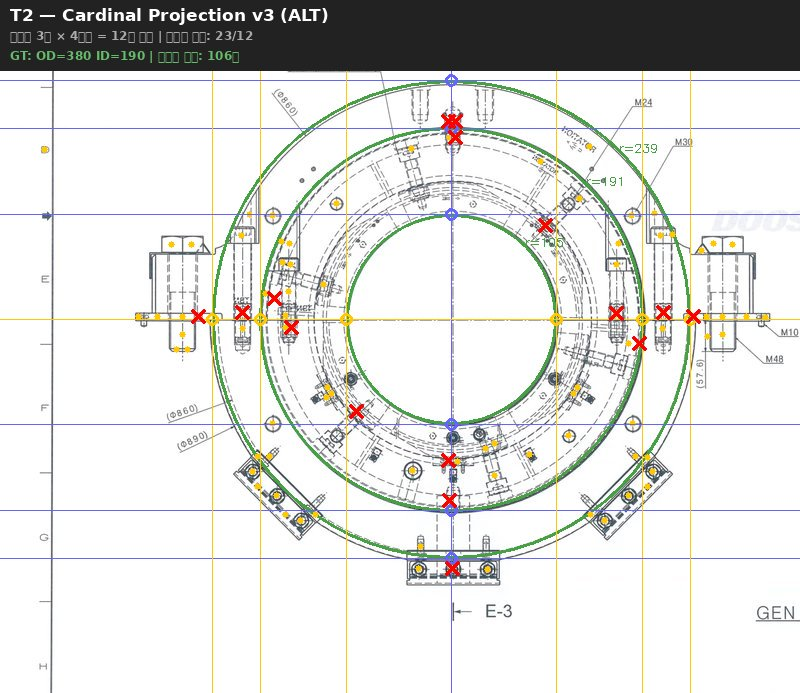
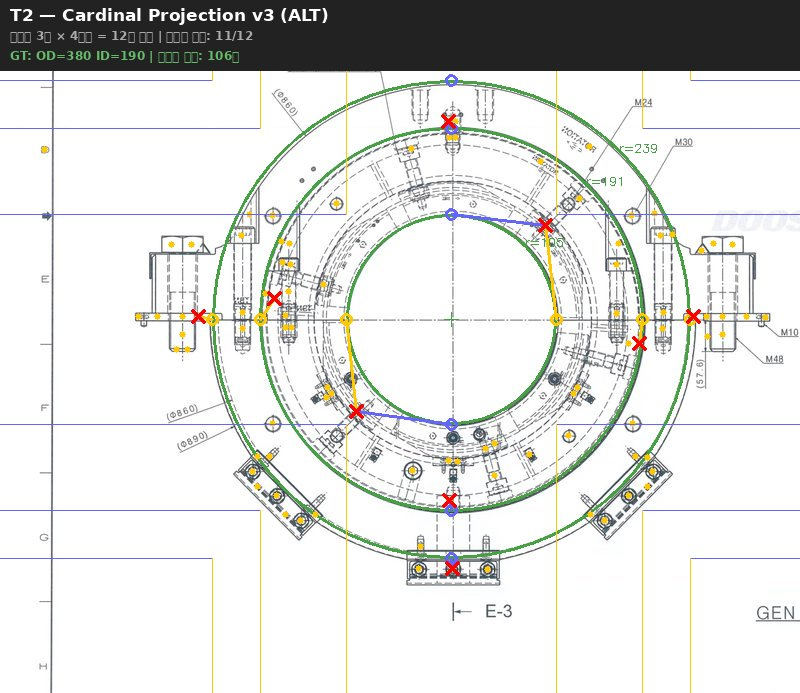
fix(S08): Cardinal v3 원 바깥쪽 직선으로 수정 — N/S→수평, E/W→수직
각 끝점에서 원에 안 닿는 바깥 방향으로만 직선 배치.
원 내부(r×0.9 이내) 화살촉 제외 필터 추가.
히트율 42/48 (88%).

diff --git a/blueprint-ai-bom/scripts/s08_cardinal_v3_alt.py b/blueprint-ai-bom/scripts/s08_cardinal_v3_alt.py
@@ -139,15 +139,15 @@ def detect_arrowheads_morphology(gray, min_area=30, max_area=800):
 # ── 3. Cardinal Projection ──
 
 def cardinal_projection(circles, arrows, gray, tolerance=15):
-    """각 원의 N/S/E/W 끝점에서 십자(+) 직선 → 화살촉 매칭
+    """각 원의 N/S/E/W 끝점에서 원 바깥쪽 수평선 → 화살촉 매칭
 
-    핵심: 각 끝점에서 **수평선 + 수직선 둘 다** 이미지 끝까지 그어서
-    그 직선 위의 화살촉을 찾는다.
+    핵심: 각 끝점에서 원에 안 닿는 방향으로만 수평선을 긋는다.
+      N끝점 → 수평선 좌(←)로 + 수평선 우(→)로 (원 위쪽이므로 원에 안 닿음)
+      S끝점 → 수평선 좌(←)로 + 수평선 우(→)로 (원 아래쪽이므로 원에 안 닿음)
+      E끝점 → 수직선 위(↑)로 + 수직선 아래(↓)로 (원 오른쪽이므로 원에 안 닿음)
+      W끝점 → 수직선 위(↑)로 + 수직선 아래(↓)로 (원 왼쪽이므로 원에 안 닿음)
 
-      N끝점 → 수평선(좌→우 끝) + 수직선(상→하 끝)
-      S끝점 → 수평선(좌→우 끝) + 수직선(상→하 끝)
-      E끝점 → 수평선(좌→우 끝) + 수직선(상→하 끝)
-      W끝점 → 수평선(좌→우 끝) + 수직선(상→하 끝)
+    즉 N/S → 수평선, E/W → 수직선. 원 바깥쪽 양방향.
 
     tolerance: 직선과 화살촉 사이 수직 거리 최대값 (px)
     """
@@ -157,17 +157,20 @@ def cardinal_projection(circles, arrows, gray, tolerance=15):
 
     results = []
 
+    # (방향, dx, dy, 직선축)
+    # N/S 끝점은 원의 위/아래 → 수평선(좌우)
+    # E/W 끝점은 원의 좌/우 → 수직선(상하)
     directions = [
-        ("N", 0, -1),
-        ("S", 0,  1),
-        ("E", 1,  0),
-        ("W", -1, 0),
+        ("N", 0, -1, "h"),
+        ("S", 0,  1, "h"),
+        ("E", 1,  0, "v"),
+        ("W", -1, 0, "v"),
     ]
 
     for ci, (cx, cy, r) in enumerate(circles):
         circle_hits = []
 
-        for dir_name, dx, dy in directions:
+        for dir_name, dx, dy, line_axis in directions:
             # 끝점
             px = cx + r * dx
             py = cy + r * dy
@@ -175,44 +178,41 @@ def cardinal_projection(circles, arrows, gray, tolerance=15):
             if px < 0 or py < 0 or px >= w or py >= h:
                 continue
 
-            # 수평선 + 수직선 둘 다에서 화살촉 검색
-            h_matches = []  # 수평선 위 화살촉
-            v_matches = []  # 수직선 위 화살촉
-
+            matches = []
             for ai, arrow in enumerate(arrows):
                 ax, ay = arrow["x"], arrow["y"]
 
-                # 수평선: y좌표가 끝점과 비슷 (이미지 전체 폭)
-                if abs(ay - py) <= tolerance:
+                if line_axis == "h":
+                    # 수평선: y좌표가 끝점과 비슷, 원 바깥(좌우 모두)
+                    if abs(ay - py) > tolerance:
+                        continue
+                    # 원 바깥인지 체크: 화살촉이 원 내부가 아닌지
+                    dist_to_center = np.sqrt((ax - cx) ** 2 + (ay - cy) ** 2)
+                    if dist_to_center < r * 0.9:
+                        continue  # 원 내부 화살촉 제외
                     dist = np.sqrt((ax - px) ** 2 + (ay - py) ** 2)
-                    h_matches.append({
+                    matches.append({
                         "arrow_idx": ai, "arrow": arrow,
-                        "line": "h", "dist": dist,
-                        "dist_from_line": abs(ay - py),
+                        "dist": dist,
+                    })
+                else:
+                    # 수직선: x좌표가 끝점과 비슷, 원 바깥(상하 모두)
+                    if abs(ax - px) > tolerance:
+                        continue
+                    dist_to_center = np.sqrt((ax - cx) ** 2 + (ay - cy) ** 2)
+                    if dist_to_center < r * 0.9:
+                        continue
+                    dist = np.sqrt((ax - px) ** 2 + (ay - py) ** 2)
+                    matches.append({
+                        "arrow_idx": ai, "arrow": arrow,
+                        "dist": dist,
                     })
 
-                # 수직선: x좌표가 끝점과 비슷 (이미지 전체 높이)
-                if abs(ax - px) <= tolerance:
-                    dist = np.sqrt((ax - px) ** 2 + (ay - py) ** 2)
-                    v_matches.append({
-                        "arrow_idx": ai, "arrow": arrow,
-                        "line": "v", "dist": dist,
-                        "dist_from_line": abs(ax - px),
-                    })
-
-            # 각 직선에서 가장 가까운 화살촉
-            all_best = []
-            if h_matches:
-                best_h = min(h_matches, key=lambda m: m["dist"])
-                all_best.append(best_h)
-            if v_matches:
-                best_v = min(v_matches, key=lambda m: m["dist"])
-                all_best.append(best_v)
-
-            for best in all_best:
+            if matches:
+                best = min(matches, key=lambda m: m["dist"])
                 circle_hits.append({
                     "direction": dir_name,
-                    "line": best["line"],
+                    "line": line_axis,
                     "endpoint": (px, py),
                     "arrow": best["arrow"],
                     "dist": best["dist"],
@@ -253,31 +253,42 @@ def visualize_cardinal(img, circles, arrows, projections, name, gt):
         "W": (0, 200, 255),
     }
 
-    # 먼저 모든 끝점의 십자 직선을 그림 (얇은 선)
-    drawn_endpoints = set()
+    # 각 끝점에서 원 바깥쪽 직선 + 히트 표시
+    line_map = {"N": "h", "S": "h", "E": "v", "W": "v"}
+    hit_count = 0
+
     for proj in projections:
         cx, cy, r = proj["cx"], proj["cy"], proj["r"]
+        hit_dirs = {h["direction"] for h in proj["hits"]}
+
         for dir_name, ddx, ddy in [("N", 0, -1), ("S", 0, 1),
                                     ("E", 1, 0), ("W", -1, 0)]:
             px = int(cx + r * ddx)
             py = int(cy + r * ddy)
-            key = (px, py)
-            if key in drawn_endpoints:
-                continue
-            drawn_endpoints.add(key)
             color = dir_colors.get(dir_name, (200, 200, 200))
-            # 수평선 (이미지 전체 폭)
-            cv2.line(canvas, (0, py), (w, py), color, 1)
-            # 수직선 (이미지 전체 높이)
-            cv2.line(canvas, (px, 0), (px, h), color, 1)
+            la = line_map[dir_name]
+
+            # 원 바깥쪽 직선만 (원에 안 닿게)
+            if la == "h":  # N/S → 수평선 좌우
+                cv2.line(canvas, (0, py), (int(cx - r), py), color, 1)
+                cv2.line(canvas, (int(cx + r), py), (w, py), color, 1)
+            else:  # E/W → 수직선 상하
+                cv2.line(canvas, (px, 0), (px, int(cy - r)), color, 1)
+                cv2.line(canvas, (px, int(cy + r)), (px, h), color, 1)
+
             # 끝점 마커
             cv2.circle(canvas, (px, py), 5, color, 2)
 
-    # 히트 표시
-    hit_count = 0
-    for proj in projections:
+        # 히트 표시
         for hit in proj["hits"]:
             ap = hit["arrow"]
+            ep = hit["endpoint"]
+            color = dir_colors.get(hit["direction"], (200, 200, 200))
+
+            # 끝점 → 화살촉 연결선
+            cv2.line(canvas, (int(ep[0]), int(ep[1])),
+                     (int(ap["x"]), int(ap["y"])), color, 2)
+
             # 화살촉 히트 (빨간 X)
             cv2.drawMarker(canvas, (int(ap["x"]), int(ap["y"])),
                            (0, 0, 255), cv2.MARKER_TILTED_CROSS, 12, 2)
